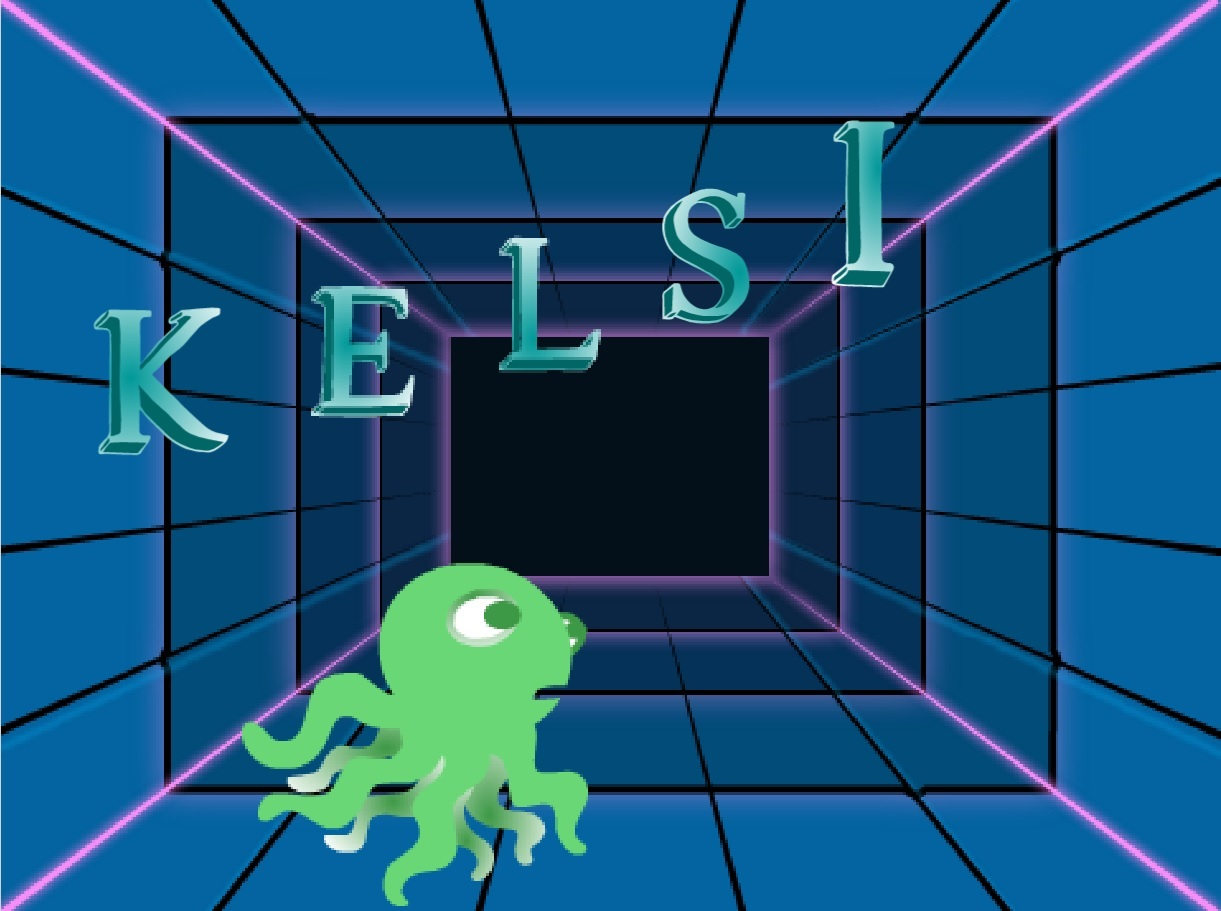
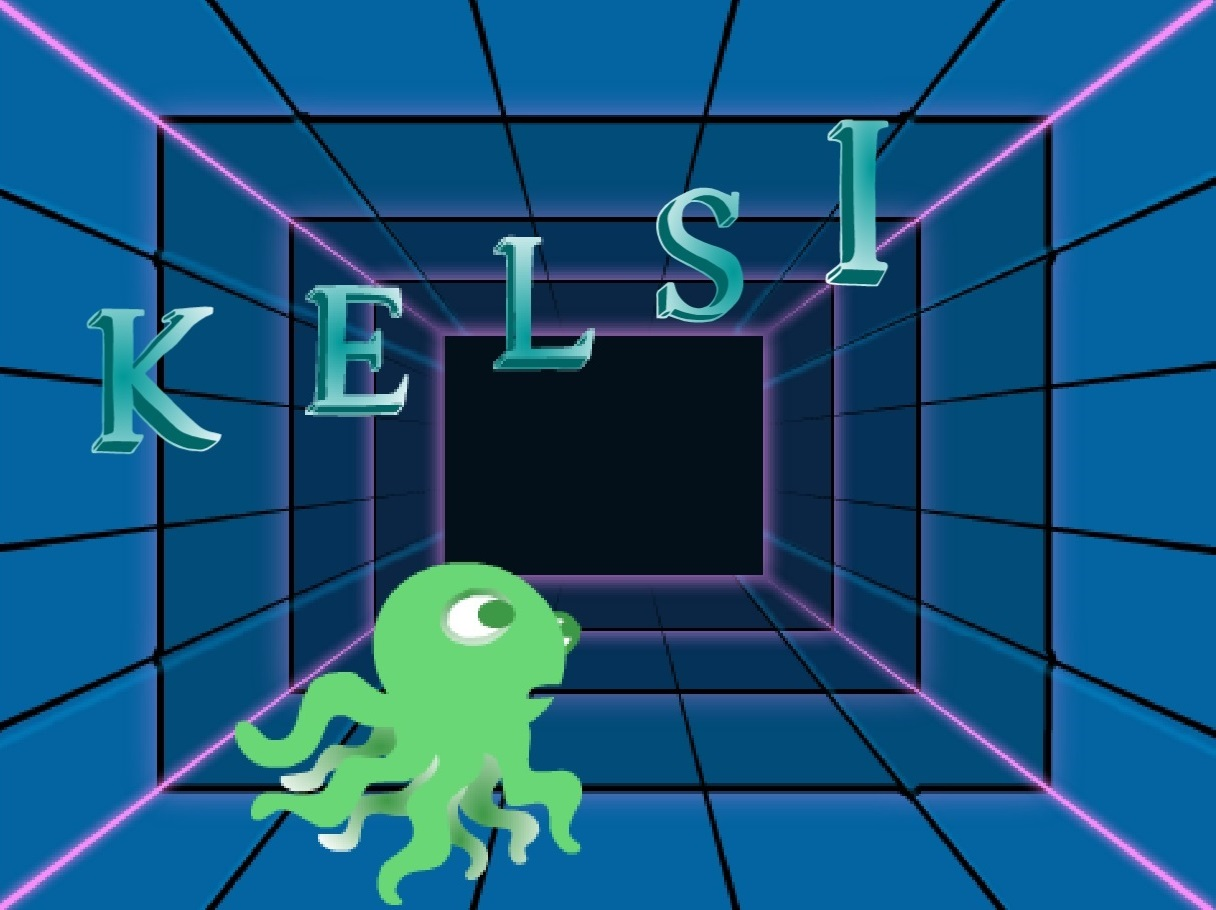
Changed Images and Fonts

diff --git a/scratch.html b/scratch.html
@@ -54,7 +54,8 @@
 	<!-- Section Content -->
 	<section id="content">
 		<h2>Scratch Content</h2>
-		<p>Replace this text with project and assignment examples</p>
+		<p>Name Assignment</p>
+		<img src="ottok0667.github.io/images/nameProject.jpg" width="320" height="180" />
 	</section><!-- end Content -->
 	
 	<!-- Aside Content -->

diff --git a/main.css b/main.css
@@ -2,12 +2,11 @@
 
 body {
 			background: teal; 
-			font: 100% Georgia, Times, serif;
 			
 		}
 		
 		h1 {
-			font: Georgia, Times, serif;
+			font: Times New Roman, Times, serif;
 			color: white;
 		}
 		
